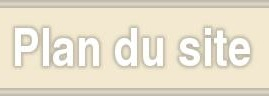
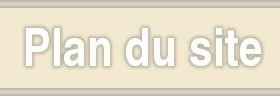
xnet skin again
git-svn-id: svn+ssh://murphy/home/svn/platal/trunk@628 839d8a87-29fc-0310-9880-83ba4fa771e5

Changed region(s): [[0.0297, 0.25, 0.9219, 0.7188], [0.9219, 0.5, 0.9517, 0.5625], [0.9219, 0.4375, 0.9517, 0.4688]]

diff --git a/htdocs.net/css/xnet.css b/htdocs.net/css/xnet.css
@@ -87,6 +87,7 @@ table#layout {
 
 #top td.logo {
     text-align: right;
+    background: url('../images/bandeau.jpg') bottom left repeat-x;
 }
 
 td#credits {
